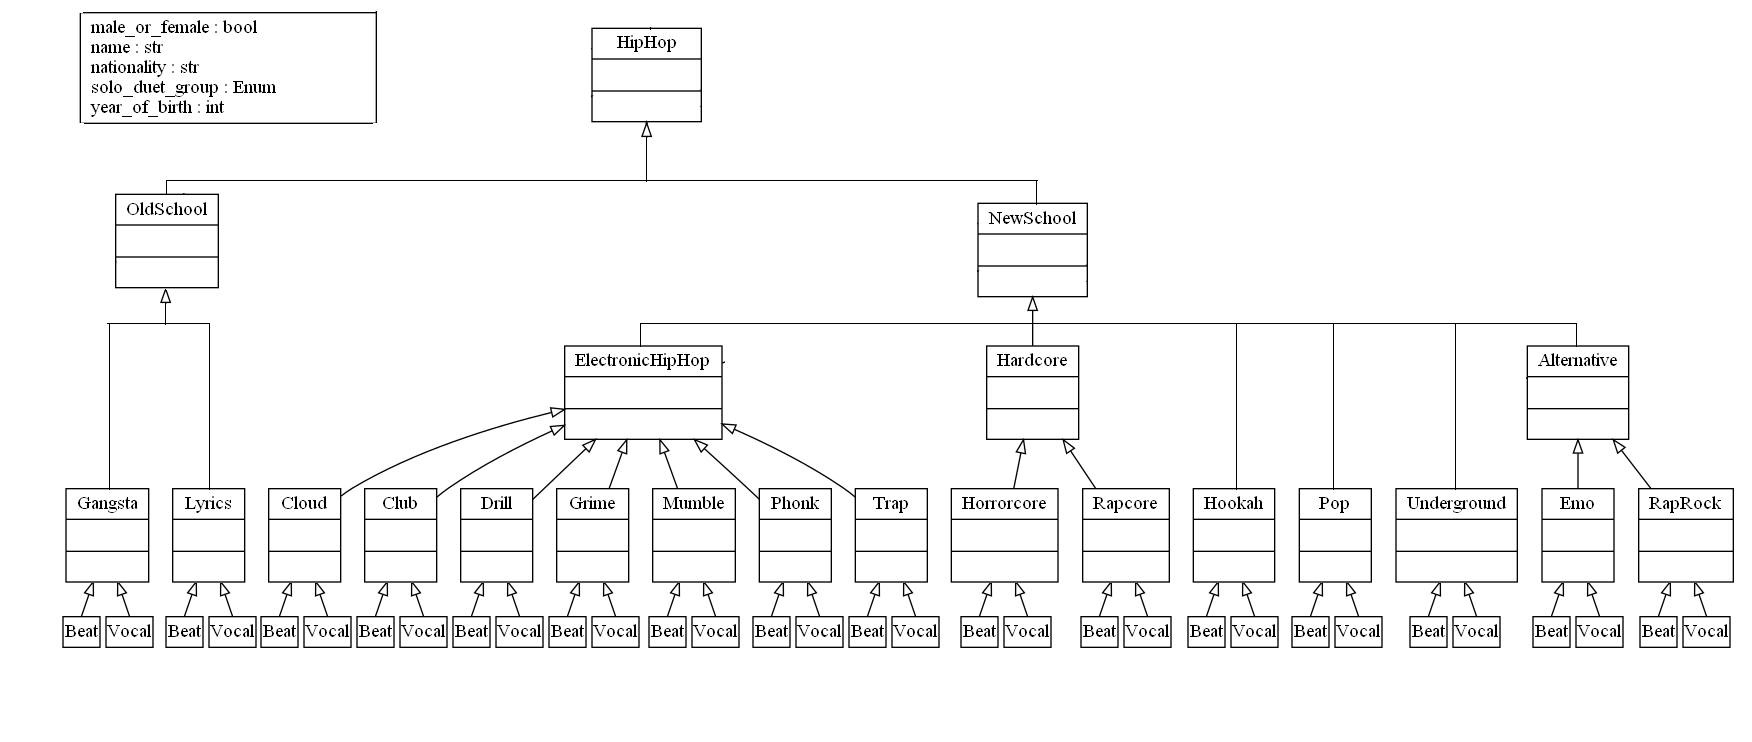
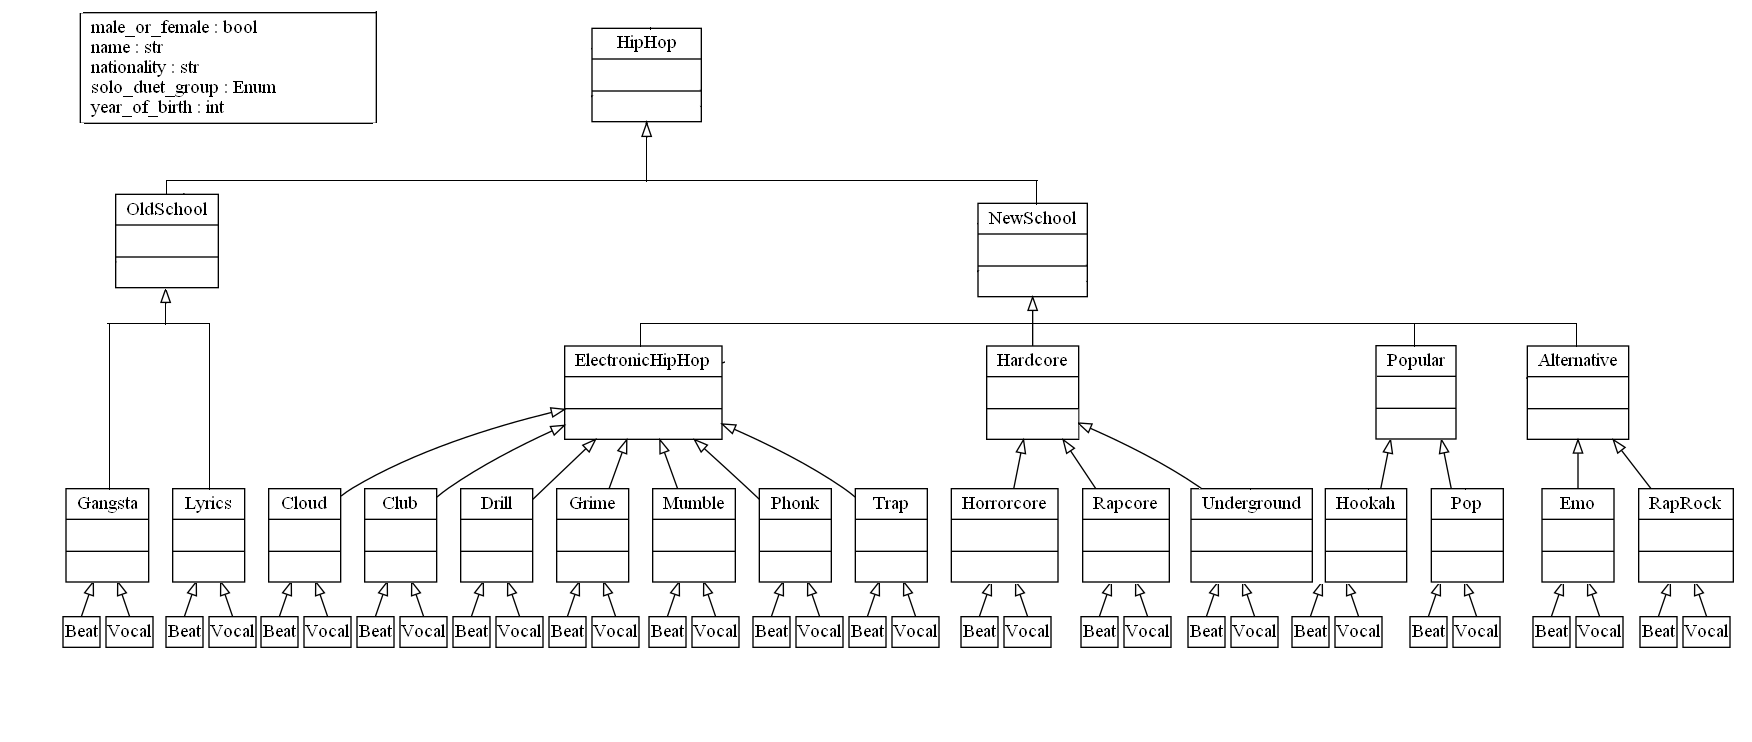
добавил узел popular и перенёс андеграунд в хардкор

Changed region(s): [[0.6781, 0.6509, 0.863, 0.7749], [0.7705, 0.465, 0.8322, 0.558], [0.7705, 0.5889, 0.8322, 0.6199]]

diff --git a/lab1/genres/genres.py b/lab1/genres/genres.py
@@ -216,7 +216,11 @@ class RapRock(Alternative):
     pass
 
 
-class Hookah(NewSchool):
+class Popular(NewSchool):
+    pass
+
+
+class Hookah(Popular):
     """
     * В музыке также характерно использование традиционных хип-хоповых битов. В ряде треков, тем не менее,
     используется прямая бочка.
@@ -229,7 +233,7 @@ class Hookah(NewSchool):
     pass
 
 
-class Pop(NewSchool):
+class Pop(Popular):
     """
     Поп-рэп — гибрид хип-хопа с массивным мелодичным заполнением, который традиционно является частью хоровой секции
     в структуре обычной поп-композиции[4]. Поп-рэп имеет тенденцию к понижению злости и увеличению лирической ценности
@@ -238,5 +242,5 @@ class Pop(NewSchool):
     pass
 
 
-class Underground(NewSchool):
+class Underground(Hardcore):
     pass
